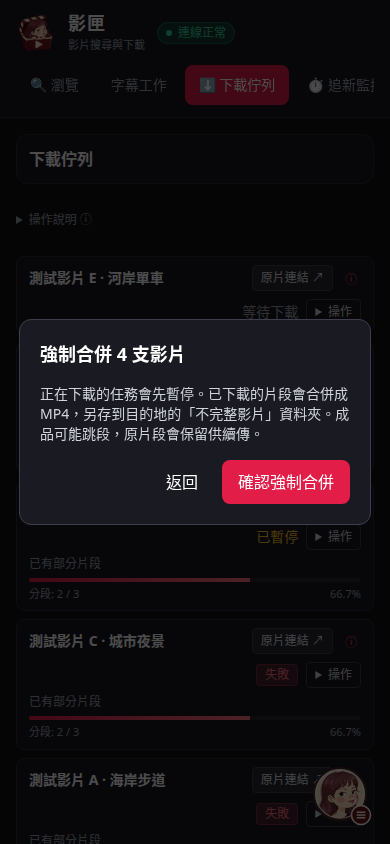
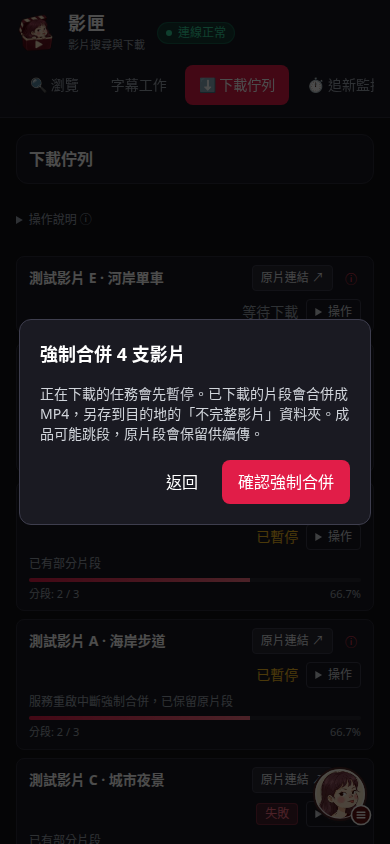
fix(download): 保護合併重啟與同名長檔名

diff --git a/tests/test_daemon_downloads.py b/tests/test_daemon_downloads.py
@@ -1585,3 +1585,47 @@ def test_force_merge_failure_keeps_segments_and_can_retry(manager):
     assert not list((Path(task.dest) / '不完整影片').glob('*.mp4'))
     assert corrupt.read_bytes() == b'corrupt'
     assert manager.list_tasks()[0]['can_force_merge']
+
+
+
+def test_force_merge_interrupted_snapshot_restores_paused_and_is_rollback_compatible(manager, tmp_path):
+    import json
+
+    manager._state_path = tmp_path / 'tasks.json'
+    task = manager.add_task('https://missav.ai/mimk-290')
+    task.files = tm.DownloadFiles(task.dest, task.task_id)
+    task.status, task.name = 'failed', 'MIMK-290'
+    task.downloaded_segments, task.total_segments = 1, 2
+    assert manager.force_merge_tasks([task.task_id])['accepted'] == [task.task_id]
+    assert 'progress_unit' not in json.loads(manager._state_path.read_text())[0]
+
+    restored = tm.TaskManager(state_path=manager._state_path)
+    result = restored.list_tasks()[0]
+    assert result['status'] == 'paused'
+    assert '中斷強制合併' in result['phase']
+    assert result['can_force_merge']
+
+
+
+def test_force_merge_keeps_both_exports_for_same_long_name(manager, hls_segments):
+    task = manager.add_task('https://missav.ai/mimk-290')
+    task.files = tm.DownloadFiles(task.dest, task.task_id)
+    task.status, task.name = 'failed', '影' * 82
+    task.downloaded_segments, task.total_segments = 1, 2
+    segments = Path(task.files.workdir) / 'segments'
+    segments.mkdir()
+    (segments / '000000.mp4').write_bytes(hls_segments[0])
+    output = Path(task.dest) / '不完整影片'
+
+    assert manager.force_merge_tasks([task.task_id])['accepted'] == [task.task_id]
+    manager._queue.remove(task.task_id)
+    manager._run_task_with_retries(task)
+    original, = output.glob('*.mp4')
+    before = original.read_bytes()
+
+    assert manager.force_merge_tasks([task.task_id])['accepted'] == [task.task_id]
+    manager._run_task_with_retries(task)
+    assert task.status == 'paused', task.error
+    other, = set(output.glob('*.mp4')) - {original}
+    assert original.read_bytes() == before
+    assert_partial_video(other, 10)

diff --git a/src/uav_downloader/daemon/download_files.py b/src/uav_downloader/daemon/download_files.py
@@ -5,7 +5,7 @@ import uuid
 
 from uav_downloader.core.storage import storage_fs, storage_open
 from uav_downloader.core.video_identity import canonical_code, video_code
-from uav_downloader.sites.base import remux_to_mp4
+from uav_downloader.sites.base import _truncate_target_name, remux_to_mp4
 
 
 VIDEO_EXTENSIONS = {'.mp4', '.mkv', '.avi', '.mov', '.webm', '.m4v', '.ts'}
@@ -137,11 +137,15 @@ class DownloadFiles:
         target_fs = storage_fs(target)
         if target_fs.islink(target):
             raise ValueError('不完整影片的存放目錄不可使用符號連結')
-        filename = f'{name}.mp4'
-        if target_fs.exists(os.path.join(target, filename)):
-            filename = f'{name}（{uuid.uuid4().hex[:8]}）.mp4'
         export = DownloadFiles(target, 'partial', self.workdir)
         try:
+            longest_folder = max((target, export.workdir), key=lambda path: len(path.encode('utf-16-le')))
+            stem = _truncate_target_name(name, longest_folder, os.path.basename(self.workdir))
+            filename = f'{stem}.mp4'
+            if target_fs.exists(os.path.join(target, filename)):
+                suffix = uuid.uuid4().hex[:8]
+                stem = _truncate_target_name(f'{name}_{suffix}', longest_folder, suffix)
+                filename = f'{stem}.mp4'
             remux_dir = os.path.join(export.workdir, 'remux')
             filesystem.makedirs(remux_dir)
             merged = os.path.join(remux_dir, 'merged.ts')

diff --git a/src/uav_downloader/daemon/task_manager.py b/src/uav_downloader/daemon/task_manager.py
@@ -93,7 +93,6 @@ class DownloadTask:
             "progress": round(self.progress, 1),
             "downloaded_segments": self.downloaded_segments,
             "total_segments": self.total_segments,
-            "progress_unit": self.progress_unit,
             "speed_bps": round(self.speed_bps, 1),
             "speed_formatted": self._format_speed(),
             "error": self.error,
@@ -166,6 +165,9 @@ class TaskManager:
                     task.files = DownloadFiles.restore(task.dest, task.task_id, files, task.staging_dir)
                 # Old snapshots have no file ownership manifest; never assume their files were removed.
                 task.cleanup_unverified = task.cleanup_unverified or (not task.subtitles_only and not files and task.status not in ("pending", "completed", "skipped", "cancelled", "paused"))
+                if task.status == 'merging':
+                    task.status = 'paused'
+                    task.set_phase('服務重啟中斷強制合併，已保留原片段')
                 if task.status == 'pausing':
                     task.status = 'paused'
                 if task.status not in ("completed", "skipped", "cancelled", "failed", "paused"):
